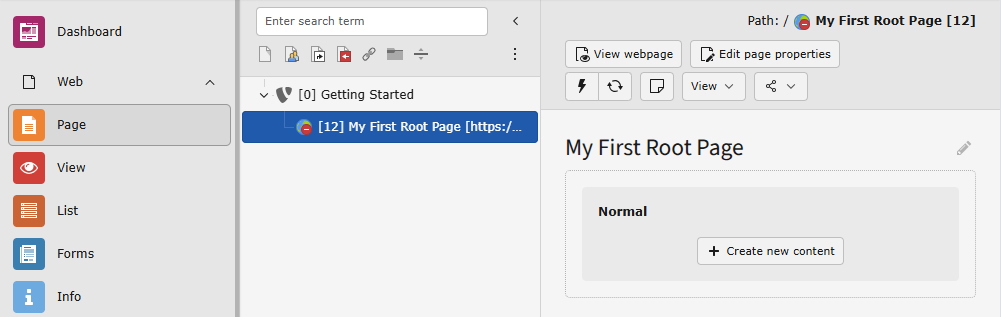
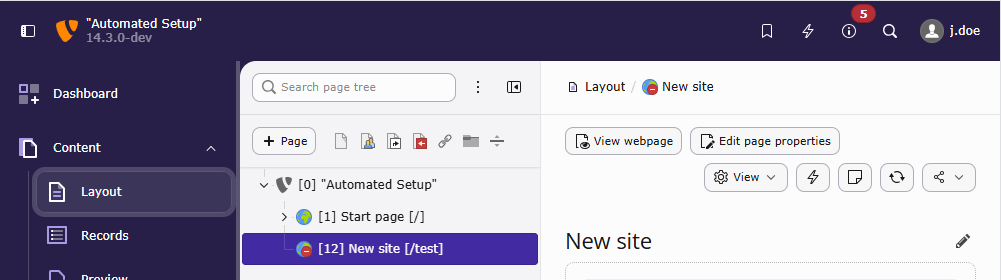
[TASK] Update Create a root page screenshots and description (#806)
* [TASK] Update Create a root page screenshots and description

Releases: main

* [TASK] Update Create a root page screenshots and description

Releases: main

diff --git a/Documentation/FirstProject/CreateRootPage.rst b/Documentation/FirstProject/CreateRootPage.rst
@@ -9,23 +9,22 @@
 How to create a root page
 =========================
 
-..  hint::
-    If you choose "Create a basic site?" during setup you can skip this step.
-
-    Proceed with chapter :ref:`Settings <siterecords>` to customize your
-    installation.
-
 In TYPO3, the root page is the starting point for any website.
 It serves as the top-level page in the page tree and is essential for
-configuring the site and making it available to users. In this tutorial,
-you will learn how to create a root page in TYPO3 v13.
+configuring the site and making it available to users.
+
+Usually the first root page is automatically created during installation, for
+example if you followed the `Quickstart <https://docs.typo3.org/permalink/t3start:quickstart>`_
+chapter in this guide.
+
+If you want to handle multiple sites from one TYPO3 installation, or if no site
+was automatically created, follow the steps below.
 
 ..  admonition:: Prerequisites
 
     *   You have TYPO3 :ref:`installed <t3start:installation-ddev-tutorial>`
         and can log into the backend.
-    *   You have access to the :guilabel:`Content > Layout` module and
-        permission to create pages.
+    *   You have administrator permissions.
     *   You are familiar with the basic layout of the TYPO3
         `Backend <https://docs.typo3.org/permalink/t3start:backend>`_.
 
@@ -97,12 +96,12 @@ Configure the site
 ==================
 
 All sites must have a `site configuration <https://docs.typo3.org/permalink/t3start:site-management>`_.
-If you have created a new page in the root of the page tree, the site configuration has been
-created automatically and you can edit it:
+If you have created a new page in the root of the page tree add a new configuration
+or edit the auto generated one:
 
-..  figure:: /Images/ManualScreenshots/CreateRootPage/AutogeneratedSiteConfig.png
+..  figure:: /Images/ManualScreenshots/CreateRootPage/PageWithoutSiteConfig.png
     :zoom: gallery
-    :alt: The auto-generated site of a new root page viewed in the "Sites" module
+    :alt: Pages without site configuration in the TYPO3 Backend - Button "Add a new site configuration for this site"
 
     You can find the auto-generated site configuration for your root page in
     the module :guilabel:`Sites > Setup`

diff --git a/Documentation/Concepts/Backend/GeneralBackendStructure/TopBar/Index.rst b/Documentation/Concepts/Backend/GeneralBackendStructure/TopBar/Index.rst
@@ -12,6 +12,7 @@ The top bar also contains specific information about your instance of TYPO3
 including the name of your site and also the version of TYPO3 it is currently running.
 
 ..  figure:: /Images/ManualScreenshots/Backend/BackendTopBar.png
+    :zoom: lightbox
     :alt: Screenshot of the TYPO3 backend top bars with the icons described bellow labeled
 
     The top bar
